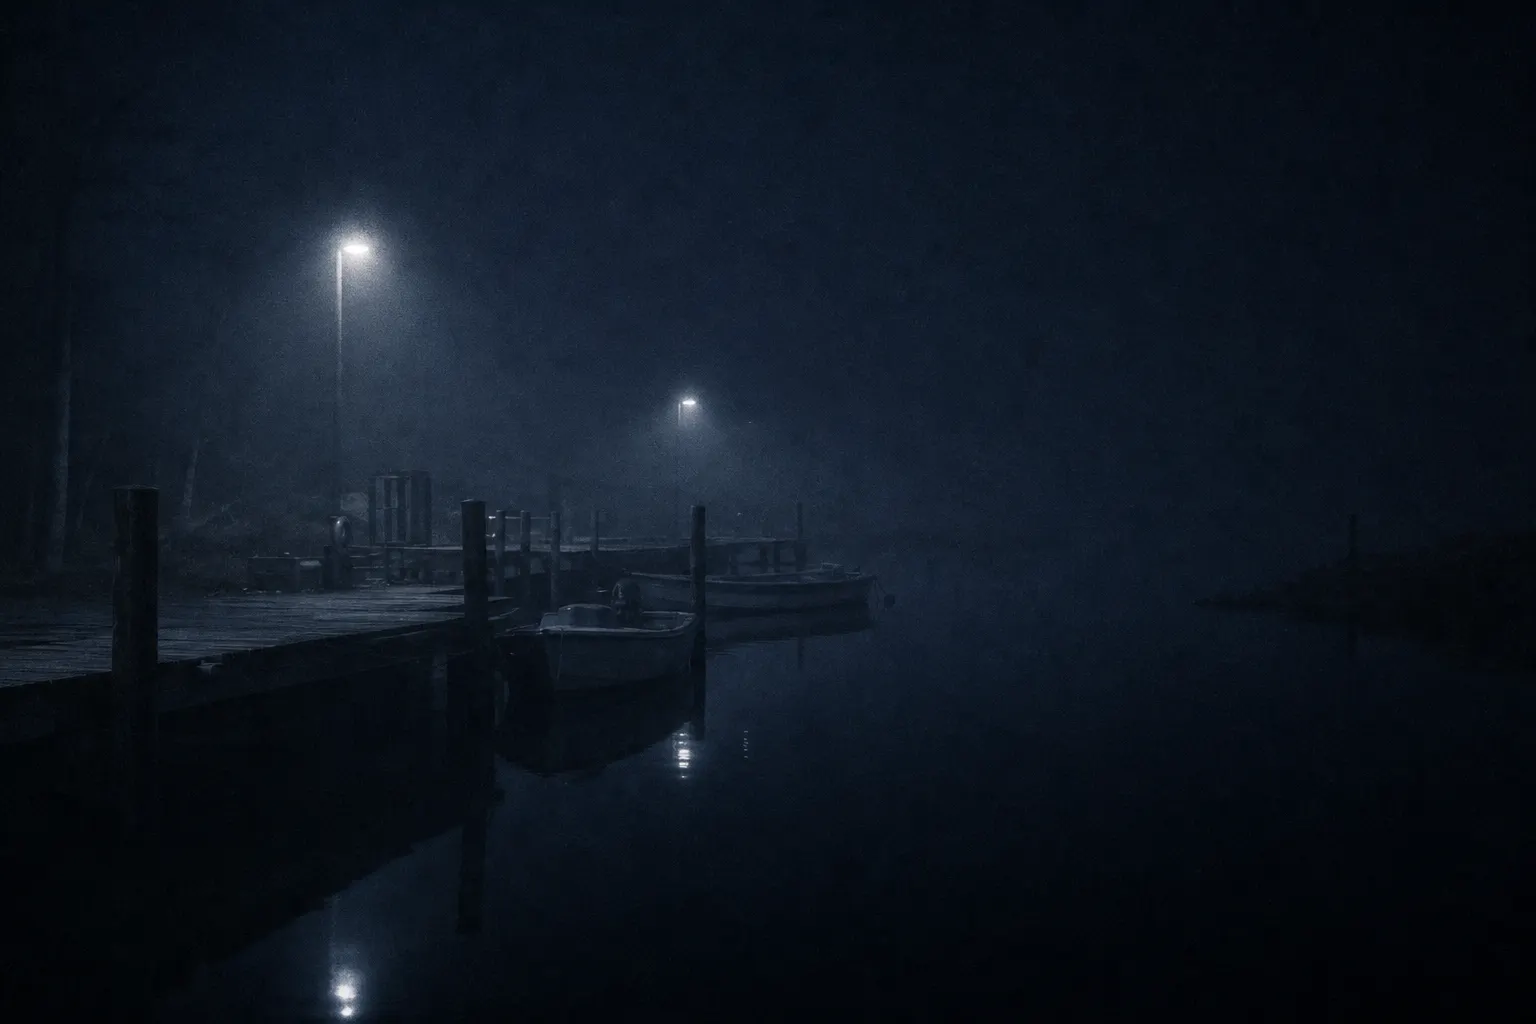
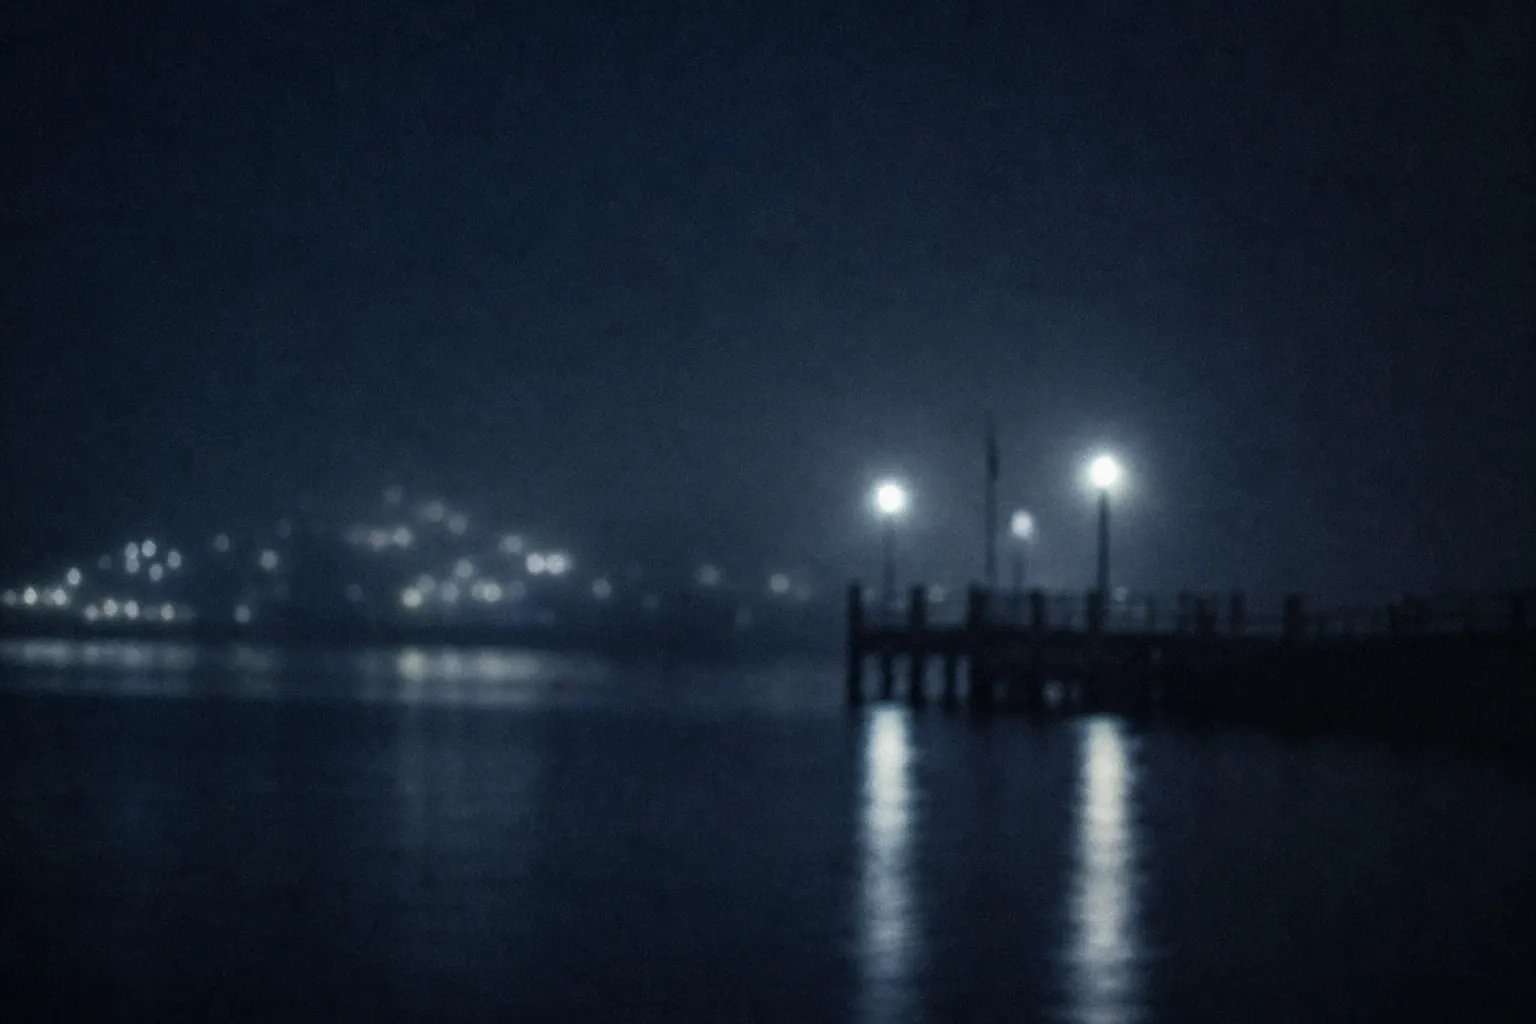
Bay windows: taller, hard-edged, soft-focus scenes with words
Per feedback on the first pass:

- All three scenes regenerated softly out of focus to match the
  hero's bokeh treatment: open water (dreamy light band), the pier
  (defocused photographic silhouettes, no longer painterly), and the
  viewer's shore (soft shoreline with a single lamp bloom — the
  detailed dock close-up is gone)
- Windows grow from 64vh to 88vh and lose the gradient feathering;
  edges are now crisp
- Every scene carries words so the bands read as chapters, not
  interruptions: 'Crossing — building in public, writing in the
  margins.', 'Nearing the shore — most of it is quiet work...', and
  the finale closes with 'Thanks for reading.' plus LinkedIn / X /
  Clad Labs links above the night footer

diff --git a/src/input.css b/src/input.css
@@ -305,9 +305,10 @@
     width: 100vw;
     margin-left: calc(50% - 50vw);
     margin-top: clamp(5rem, 12vh, 9rem);
-    height: 64vh;
+    height: 88vh;
     clip-path: inset(0);
-    pointer-events: none;
+    display: grid;
+    place-items: center;
   }
   .bay-interlude-img {
     position: fixed;
@@ -319,23 +320,34 @@
     background-size: cover;
     background-position: center;
   }
-  /* Feather the band into the fog-white page above and below. */
-  .bay-interlude::before,
-  .bay-interlude::after {
-    content: "";
-    position: absolute;
-    left: 0;
-    right: 0;
-    height: 18%;
+
+  /* Words on the water: the copy scrolls with the page while the
+     scene behind it holds still. */
+  .bay-copy {
+    position: relative;
     z-index: 1;
+    max-width: min(88vw, 38rem);
+    text-align: center;
+    color: #eef3f7;
+    text-shadow: 0 1px 16px rgba(7, 11, 16, 0.65);
   }
-  .bay-interlude::before {
-    top: 0;
-    background: linear-gradient(180deg, #f6f8fa, rgba(246, 248, 250, 0));
+  .bay-eyebrow {
+    display: block;
+    font-size: 0.7rem;
+    letter-spacing: 0.3em;
+    text-transform: uppercase;
+    color: rgba(205, 220, 233, 0.65);
+    margin-bottom: 1rem;
   }
-  .bay-interlude::after {
-    bottom: 0;
-    background: linear-gradient(0deg, #f6f8fa, rgba(246, 248, 250, 0));
+  .bay-line {
+    font-family: var(--font-display);
+    font-weight: 300;
+    font-style: italic;
+    font-size: clamp(1.35rem, 2.6vw, 1.9rem);
+    line-height: 1.45;
+    letter-spacing: -0.01em;
+    margin: 0;
+    color: rgba(240, 246, 250, 0.92);
   }
 
   /* Footer-as-finale: home's footer is a tall window onto the
@@ -344,7 +356,7 @@
   .blog-footer--night {
     position: relative;
     clip-path: inset(0);
-    min-height: 82vh;
+    min-height: 88vh;
     display: flex;
     flex-direction: column;
     justify-content: flex-end;
@@ -361,16 +373,59 @@
     background-size: cover;
     background-position: center bottom;
   }
-  .blog-footer--night::before {
-    content: "";
-    position: absolute;
-    top: 0;
-    left: 0;
-    right: 0;
-    height: 22%;
-    z-index: 1;
-    background: linear-gradient(180deg, #f6f8fa, rgba(246, 248, 250, 0));
+
+  /* Closing words, centred in the free space above the footer row. */
+  .bay-finale-copy {
+    position: relative;
+    z-index: 2;
+    margin: auto;
+    padding: 5rem clamp(1.25rem, 4vw, 2.5rem) 3rem;
+    max-width: min(90vw, 40rem);
+    text-align: center;
+    color: #eef3f7;
+    text-shadow: 0 1px 16px rgba(7, 11, 16, 0.65);
   }
+  .bay-finale-title {
+    font-family: var(--font-display);
+    font-weight: 400;
+    font-size: clamp(2rem, 4.6vw, 3.4rem);
+    line-height: 1.18;
+    letter-spacing: -0.02em;
+    margin: 0 0 1rem;
+    color: #f3f7f9;
+  }
+  .bay-finale-title em {
+    font-style: italic;
+    display: inline-block;
+    padding: 0 0.1em 0.12em 0.02em;
+    margin: 0 -0.04em -0.12em 0;
+    background: linear-gradient(120deg, #e7f0f3 0%, #9cc2cf 100%);
+    -webkit-background-clip: text;
+    background-clip: text;
+    color: transparent;
+    -webkit-text-fill-color: transparent;
+  }
+  .bay-finale-body {
+    margin: 0;
+    font-size: clamp(0.98rem, 1.5vw, 1.1rem);
+    line-height: 1.6;
+    color: rgba(216, 229, 238, 0.75);
+  }
+  .bay-finale-body a {
+    color: rgba(240, 247, 250, 0.95);
+    text-decoration: none;
+    background-image: linear-gradient(
+      90deg,
+      rgba(146, 186, 200, 0.7),
+      rgba(146, 186, 200, 0.25)
+    );
+    background-repeat: no-repeat;
+    background-size: 100% 1px;
+    background-position: 0 100%;
+    transition: color 140ms ease;
+  }
+  .bay-finale-body a:hover { color: #ffffff; }
+
   .blog-footer--night .blog-footer-inner {
     position: relative;
     z-index: 2;

diff --git a/src/index.html b/src/index.html
@@ -251,11 +251,18 @@
 
       <!-- Crossing the bay: open water. A fixed image seen through a
            clipped window — the page scrolls over the stationary scene. -->
-      <div class="bay-interlude" aria-hidden="true">
+      <div class="bay-interlude">
         <div
           class="bay-interlude-img"
+          aria-hidden="true"
           style="background-image: url('/bay-mid.webp')"
         ></div>
+        <div class="bay-copy">
+          <span class="bay-eyebrow">Crossing</span>
+          <p class="bay-line">
+            Building in public, writing in the margins.
+          </p>
+        </div>
       </div>
 
       <!-- Section 3 — Media -->
@@ -302,12 +309,20 @@
         </a>
       </section>
 
-      <!-- Nearing the viewer's side: the docks in fog. -->
-      <div class="bay-interlude" aria-hidden="true">
+      <!-- Nearing the viewer's side: the pier in fog. -->
+      <div class="bay-interlude">
         <div
           class="bay-interlude-img"
+          aria-hidden="true"
           style="background-image: url('/bay-docks.webp')"
         ></div>
+        <div class="bay-copy">
+          <span class="bay-eyebrow">Nearing the shore</span>
+          <p class="bay-line">
+            Most of it is quiet work — notes, updates, small things
+            that compound.
+          </p>
+        </div>
       </div>
 
       <!-- Section 5 — Notes & updates -->
@@ -433,13 +448,25 @@
     </main>
 
     <!-- Arrival: the viewer's own shore, revealed from beneath the page
-         as the content scrolls away. The footer lives on the dock. -->
+         as the content scrolls away. Closing words + footer live here. -->
     <footer class="blog-footer blog-footer--night">
       <div
         class="bay-finale"
         aria-hidden="true"
         style="background-image: url('/bay-shore.webp')"
       ></div>
+      <div class="bay-finale-copy">
+        <span class="bay-eyebrow">The viewer's side</span>
+        <h2 class="bay-finale-title">Thanks for <em>reading</em>.</h2>
+        <p class="bay-finale-body">
+          Say hello on
+          <a href="https://www.linkedin.com/in/richard-wang-39554994/" target="_blank" rel="noopener">LinkedIn</a>
+          or
+          <a href="https://x.com/zzzbuggg" target="_blank" rel="noopener">X</a>,
+          or see what we're building at
+          <a href="https://cladlabs.ai" target="_blank" rel="noopener">Clad Labs</a>.
+        </p>
+      </div>
       <div class="blog-footer-inner">
         <a class="blog-footer-mark" href="/">
           <svg viewBox="0 0 40 20" fill="none" stroke="currentColor"
